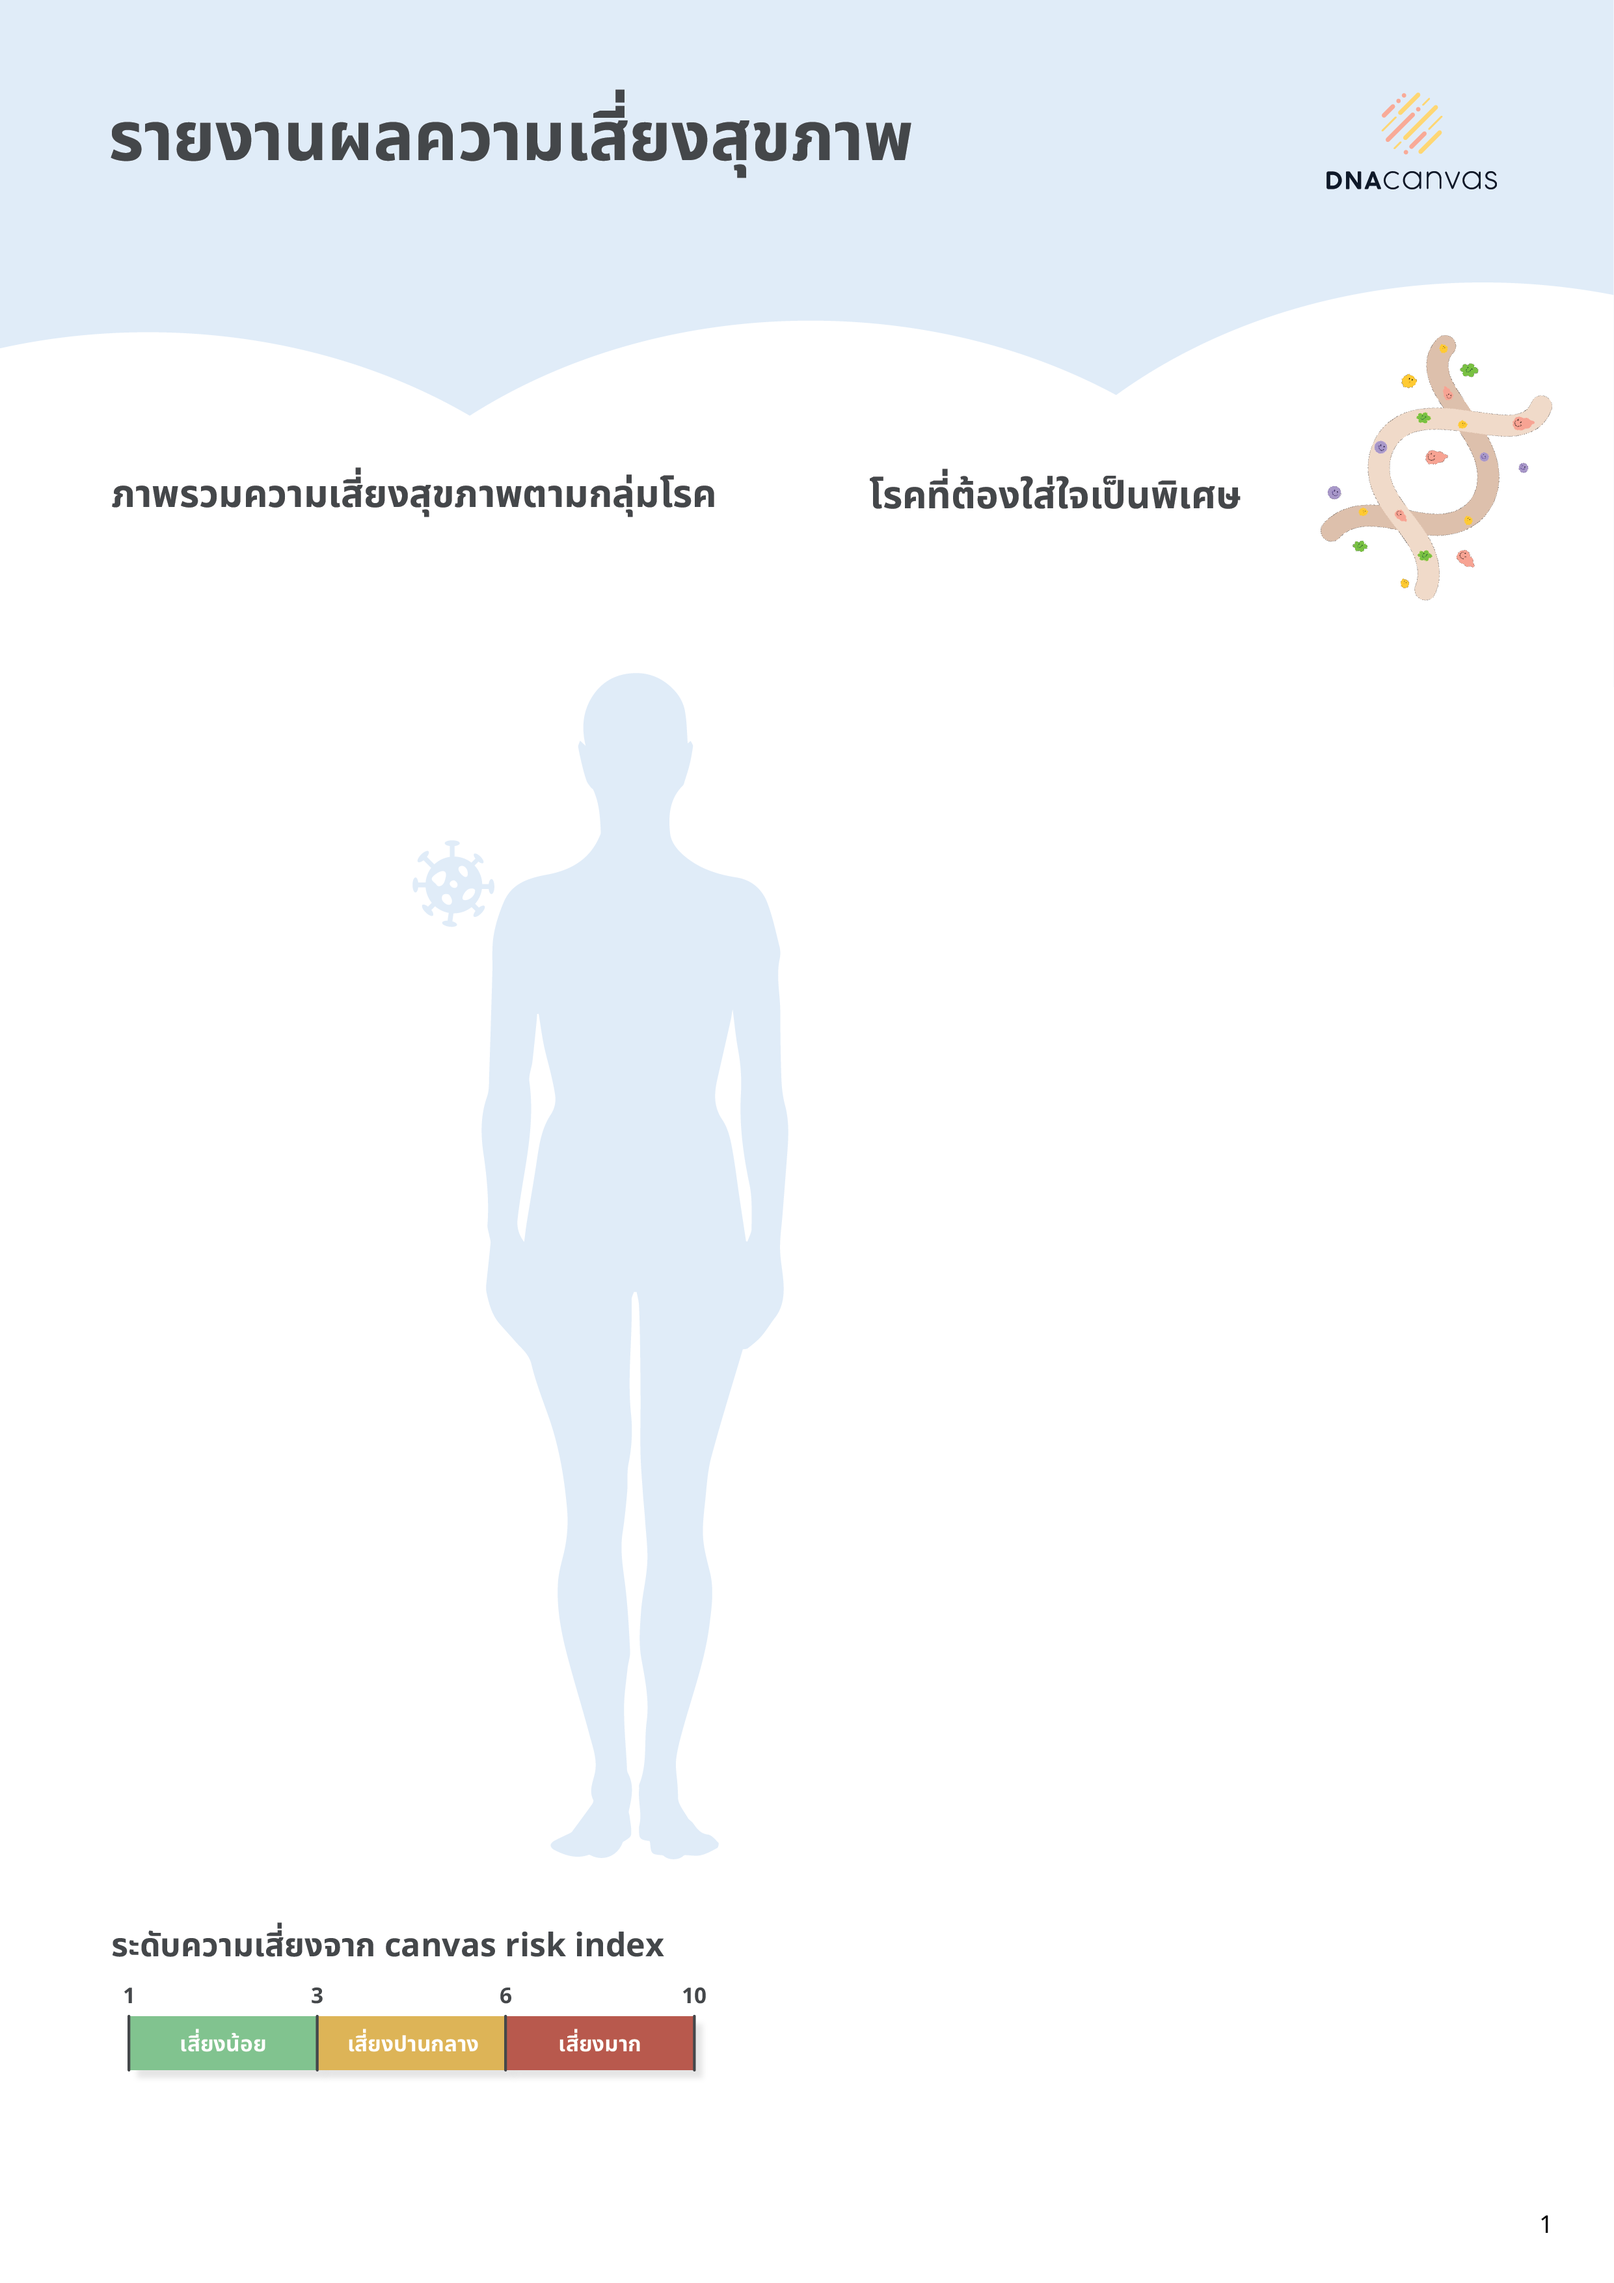
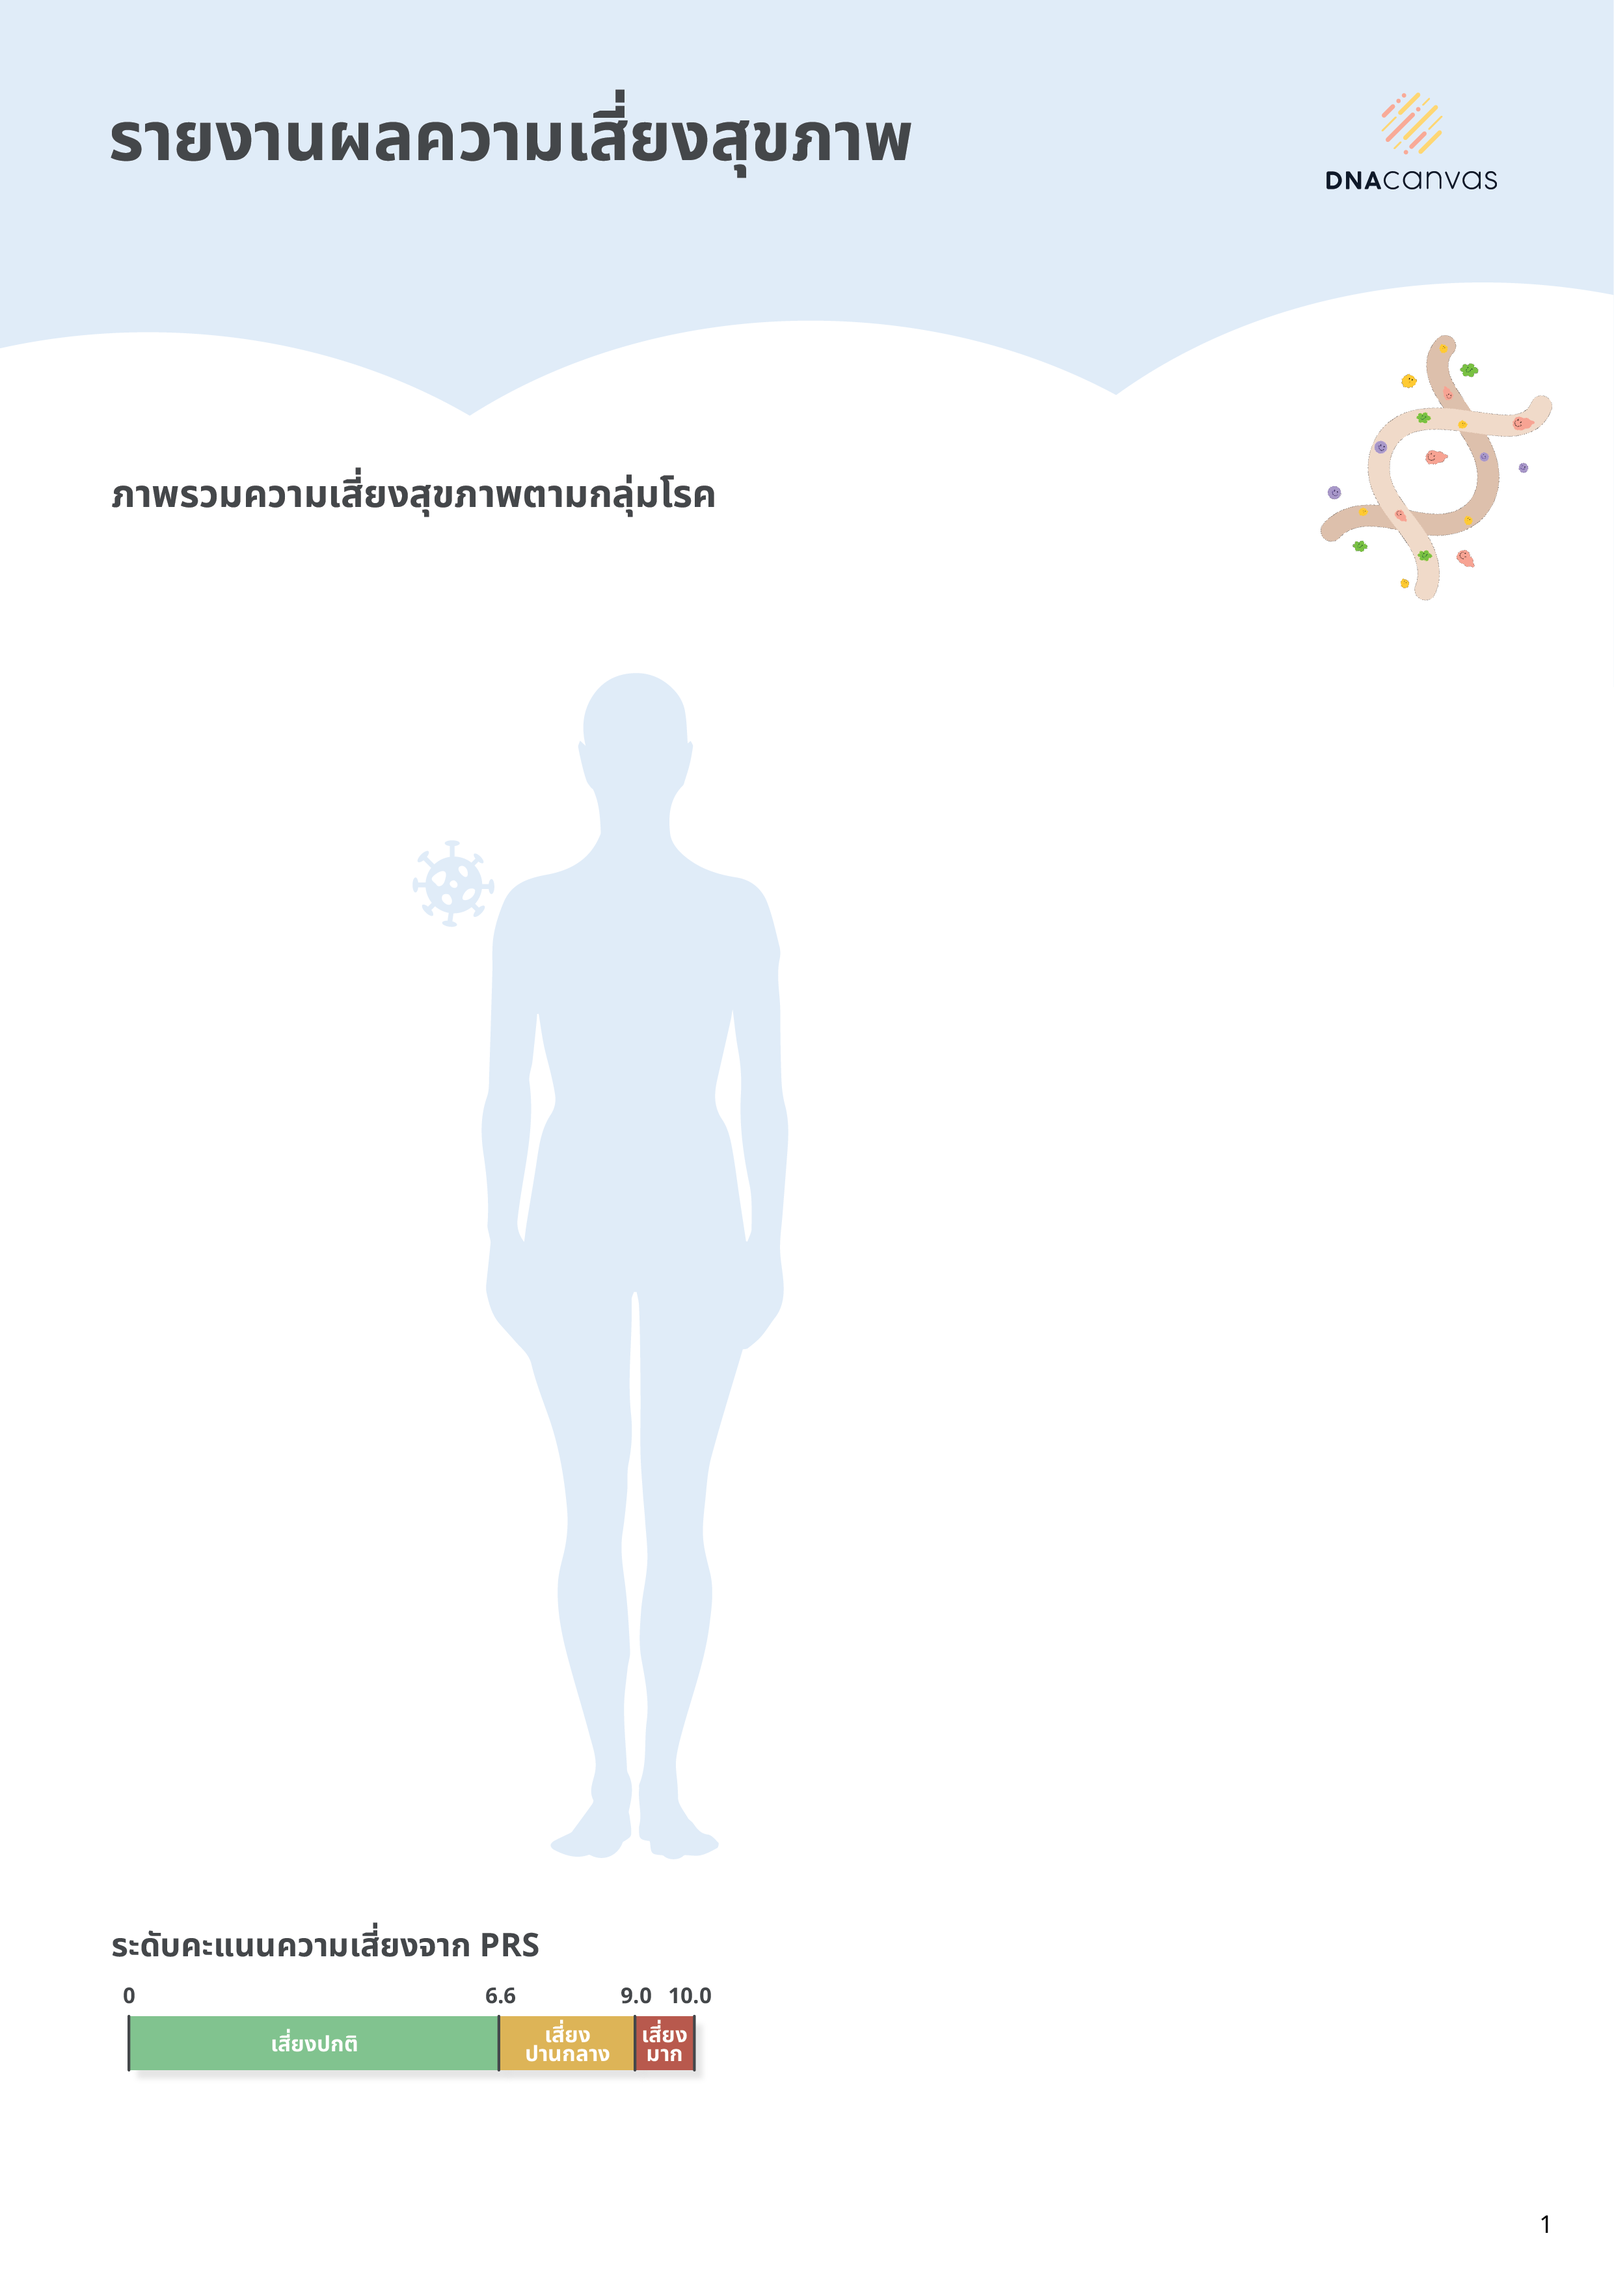
update - background and condition

Changed region(s): [[0.1241, 0.8389, 0.4345, 0.9322], [0.5586, 0.1864, 0.6518, 0.2486], [0.6828, 0.1864, 0.7449, 0.2486]]

diff --git a/src/components/dcv-health-report/HealthRiskReport.vue b/src/components/dcv-health-report/HealthRiskReport.vue
@@ -57,7 +57,7 @@
                                 :line-no="7" />
                         </div>
                     </div>
-                    <div class="pt-[12.8rem] pl-2 font-notoSansThai text-very_small text-gray-700 whitespace-pre-line">* คำนวณโดยใช้คะแนนจากดีเอ็นเอ (polygenic risk score) ร่วมกับ<br>ปัจจัยด้านความรุนแรงของโรค </div>
+                    <div class="pt-[12.8rem] pl-2 font-notoSansThai text-very_small text-gray-700 whitespace-pre-line">* PRS (Polygenic Risk Score) คือคะแนนความเสี่ยงที่คำนวณจากยีนหลายยีน<br>และถูกรายงานเป็นความเสี่ยงเทียบกับประชากรปกติ  </div>
                 </div>
                 <div class="flex flex-col gap-4 pl-1">
                     <div v-for="item in sampleDataHighestScore">

diff --git a/src/components/dcv-health-report/DcvReport.vue b/src/components/dcv-health-report/DcvReport.vue
@@ -183,7 +183,7 @@ function getGroupScoreGreatherThanSix() {
             }
 
             group.forEach((sample: any) => {
-                if (sample.disease_score > 6) {
+                if (sample.disease_score > 6.6 && sample.risk_reduction && sample.supplement) {
                     groupedData[element.group].push({
                         name: sample.risk_disease,
                         score: sample.disease_score,
